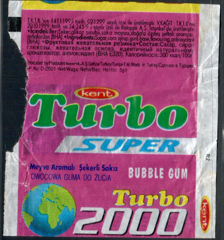
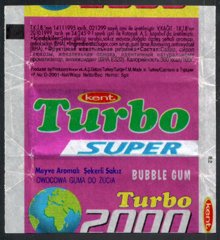
turbo 2000 covers

diff --git a/script/thumbnails.py b/script/thumbnails.py
@@ -38,6 +38,6 @@ def build(root_dir: str):
 
 
 if __name__ == "__main__":
-    for root, dirs, files in os.walk(f"../gum_wrappers/kent/turbo/black/191-260"):
+    for root, dirs, files in os.walk(f"../gum_wrappers/kent/turbo/2000/71-140"):
         if "thumbnails" in dirs:
             build(root)

diff --git a/gum_wrappers/kent/turbo/2000/71-140/README.md b/gum_wrappers/kent/turbo/2000/71-140/README.md
@@ -5,11 +5,11 @@
 |     Release      |                                                             1                                                              |                                                   2                                                    |                                                             3                                                              |                                                             4                                                              |                                                             5                                                              |
 |:----------------:|:--------------------------------------------------------------------------------------------------------------------------:|:------------------------------------------------------------------------------------------------------:|:--------------------------------------------------------------------------------------------------------------------------:|:--------------------------------------------------------------------------------------------------------------------------:|:--------------------------------------------------------------------------------------------------------------------------:|
 |  1999.07 [G-99]  |             [<img src='thumbnails/outer/1999_07{G-99}[5]/1.5.png'>](thumbnails/outer/1999_07{G-99}[5]/1.5.png)             |   [<img src='thumbnails/outer/1999_07{G-99}[5]/2.5.png'>](thumbnails/outer/1999_07{G-99}[5]/2.5.png)   |             [<img src='thumbnails/outer/1999_07{G-99}[5]/3.5.png'>](thumbnails/outer/1999_07{G-99}[5]/3.5.png)             |             [<img src='thumbnails/outer/1999_07{G-99}[5]/4.5.png'>](thumbnails/outer/1999_07{G-99}[5]/4.5.png)             |             [<img src='thumbnails/outer/1999_07{G-99}[5]/5.4.png'>](thumbnails/outer/1999_07{G-99}[5]/5.4.png)             |
-| 2000.03 [C-2000] |           [<img src='thumbnails/outer/2000_03{C-2000}[5]/1.5.png'>](thumbnails/outer/2000_03{C-2000}[5]/1.5.png)           | [<img src='thumbnails/outer/2000_03{C-2000}[5]/2.5.png'>](thumbnails/outer/2000_03{C-2000}[5]/2.5.png) | [<img src='/collection/gum_wrappers/kent/turbo//missed_outer.png'>](/collection/gum_wrappers/kent/turbo//missed_outer.png) | [<img src='/collection/gum_wrappers/kent/turbo//missed_outer.png'>](/collection/gum_wrappers/kent/turbo//missed_outer.png) |           [<img src='thumbnails/outer/2000_03{C-2000}[5]/5.5.png'>](thumbnails/outer/2000_03{C-2000}[5]/5.5.png)           |
+| 2000.03 [C-2000] |           [<img src='thumbnails/outer/2000_03{C-2000}[5]/1.5.png'>](thumbnails/outer/2000_03{C-2000}[5]/1.5.png)           | [<img src='thumbnails/outer/2000_03{C-2000}[5]/2.5.png'>](thumbnails/outer/2000_03{C-2000}[5]/2.5.png) | [<img src='/collection/gum_wrappers/kent/turbo//missed_outer.png'>](/collection/gum_wrappers/kent/turbo//missed_outer.png) |           [<img src='thumbnails/outer/2000_03{C-2000}[5]/4.5.png'>](thumbnails/outer/2000_03{C-2000}[5]/4.5.png)           |           [<img src='thumbnails/outer/2000_03{C-2000}[5]/5.5.png'>](thumbnails/outer/2000_03{C-2000}[5]/5.5.png)           |
 | 2000.04 [D-2000] | [<img src='/collection/gum_wrappers/kent/turbo//missed_outer.png'>](/collection/gum_wrappers/kent/turbo//missed_outer.png) | [<img src='thumbnails/outer/2000_04{D-2000}[5]/2.5.png'>](thumbnails/outer/2000_04{D-2000}[5]/2.5.png) |           [<img src='thumbnails/outer/2000_04{D-2000}[5]/3.5.png'>](thumbnails/outer/2000_04{D-2000}[5]/3.5.png)           |           [<img src='thumbnails/outer/2000_04{D-2000}[5]/4.5.png'>](thumbnails/outer/2000_04{D-2000}[5]/4.5.png)           | [<img src='/collection/gum_wrappers/kent/turbo//missed_outer.png'>](/collection/gum_wrappers/kent/turbo//missed_outer.png) |
-| 2000.07 [G-2000] | [<img src='/collection/gum_wrappers/kent/turbo//missed_outer.png'>](/collection/gum_wrappers/kent/turbo//missed_outer.png) | [<img src='thumbnails/outer/2000_07{G-2000}[5]/2.5.png'>](thumbnails/outer/2000_07{G-2000}[5]/2.5.png) |           [<img src='thumbnails/outer/2000_07{G-2000}[5]/3.5.png'>](thumbnails/outer/2000_07{G-2000}[5]/3.5.png)           | [<img src='/collection/gum_wrappers/kent/turbo//missed_outer.png'>](/collection/gum_wrappers/kent/turbo//missed_outer.png) |           [<img src='thumbnails/outer/2000_07{G-2000}[5]/5.5.png'>](thumbnails/outer/2000_07{G-2000}[5]/5.5.png)           |
+| 2000.07 [G-2000] |           [<img src='thumbnails/outer/2000_07{G-2000}[5]/1.5.png'>](thumbnails/outer/2000_07{G-2000}[5]/1.5.png)           | [<img src='thumbnails/outer/2000_07{G-2000}[5]/2.5.png'>](thumbnails/outer/2000_07{G-2000}[5]/2.5.png) |           [<img src='thumbnails/outer/2000_07{G-2000}[5]/3.5.png'>](thumbnails/outer/2000_07{G-2000}[5]/3.5.png)           |           [<img src='thumbnails/outer/2000_07{G-2000}[5]/4.5.png'>](thumbnails/outer/2000_07{G-2000}[5]/4.5.png)           |           [<img src='thumbnails/outer/2000_07{G-2000}[5]/5.5.png'>](thumbnails/outer/2000_07{G-2000}[5]/5.5.png)           |
 | 2000.11 [K-2000] | [<img src='/collection/gum_wrappers/kent/turbo//missed_outer.png'>](/collection/gum_wrappers/kent/turbo//missed_outer.png) | [<img src='thumbnails/outer/2000_11{K-2000}[5]/2.5.png'>](thumbnails/outer/2000_11{K-2000}[5]/2.5.png) | [<img src='/collection/gum_wrappers/kent/turbo//missed_outer.png'>](/collection/gum_wrappers/kent/turbo//missed_outer.png) | [<img src='/collection/gum_wrappers/kent/turbo//missed_outer.png'>](/collection/gum_wrappers/kent/turbo//missed_outer.png) | [<img src='/collection/gum_wrappers/kent/turbo//missed_outer.png'>](/collection/gum_wrappers/kent/turbo//missed_outer.png) |
-| 2001.04 [D-2001] | [<img src='/collection/gum_wrappers/kent/turbo//missed_outer.png'>](/collection/gum_wrappers/kent/turbo//missed_outer.png) | [<img src='thumbnails/outer/2001_04{D-2001}[5]/2.5.png'>](thumbnails/outer/2001_04{D-2001}[5]/2.5.png) | [<img src='/collection/gum_wrappers/kent/turbo//missed_outer.png'>](/collection/gum_wrappers/kent/turbo//missed_outer.png) |           [<img src='thumbnails/outer/2001_04{D-2001}[5]/4.5.png'>](thumbnails/outer/2001_04{D-2001}[5]/4.5.png)           | [<img src='/collection/gum_wrappers/kent/turbo//missed_outer.png'>](/collection/gum_wrappers/kent/turbo//missed_outer.png) |
+| 2001.04 [D-2001] |           [<img src='thumbnails/outer/2001_04{D-2001}[5]/1.5.png'>](thumbnails/outer/2001_04{D-2001}[5]/1.5.png)           | [<img src='thumbnails/outer/2001_04{D-2001}[5]/2.5.png'>](thumbnails/outer/2001_04{D-2001}[5]/2.5.png) | [<img src='/collection/gum_wrappers/kent/turbo//missed_outer.png'>](/collection/gum_wrappers/kent/turbo//missed_outer.png) |           [<img src='thumbnails/outer/2001_04{D-2001}[5]/4.5.png'>](thumbnails/outer/2001_04{D-2001}[5]/4.5.png)           |           [<img src='thumbnails/outer/2001_04{D-2001}[5]/5.5.png'>](thumbnails/outer/2001_04{D-2001}[5]/5.5.png)           |
 
 <span style="display: inline-block;">
 	<a href='thumbnails/inner/71.5.png' title=''><img src='thumbnails/inner/71.5.png' alt=''></a>

diff --git a/gum_wrappers/kent/turbo/index.md b/gum_wrappers/kent/turbo/index.md
@@ -10,7 +10,7 @@ layout: default
 
 ## Statistic
 
-\[Covers: 698 of 1094\]
+\[Covers: 703 of 1094\]
 \[Wrappers: 2161 of 2193\]
 
 ## [T1 – Turbo 1-50](black/1-50)
@@ -2991,7 +2991,7 @@ Wrappers: 70 / 70
 
 ## [E2 – Turbo 2000 Super 71-140](2000/71-140)
 
-Covers: 17 / 30
+Covers: 22 / 30
 Wrappers: 70 / 70
 
 <table style="width:100%">
@@ -3007,7 +3007,7 @@ Wrappers: 70 / 70
             <a href='2000/71-140/thumbnails/outer/2000_03{C-2000}[5]/1.5.png' target='_blank'><img src='2000/71-140/thumbnails/outer/2000_03{C-2000}[5]/1.5.png' width='50' alt='2000.03 [C-2000] .1'/></a>
             <a href='2000/71-140/thumbnails/outer/2000_03{C-2000}[5]/2.5.png' target='_blank'><img src='2000/71-140/thumbnails/outer/2000_03{C-2000}[5]/2.5.png' width='50' alt='2000.03 [C-2000] .2'/></a>
             <a href='/collection/gum_wrappers/kent/turbo//missed_outer.png' target='_blank'><img src='/collection/gum_wrappers/kent/turbo//missed_outer.png' width='50' alt='2000.03 [C-2000] .3'/></a>
-            <a href='/collection/gum_wrappers/kent/turbo//missed_outer.png' target='_blank'><img src='/collection/gum_wrappers/kent/turbo//missed_outer.png' width='50' alt='2000.03 [C-2000] .4'/></a>
+            <a href='2000/71-140/thumbnails/outer/2000_03{C-2000}[5]/4.5.png' target='_blank'><img src='2000/71-140/thumbnails/outer/2000_03{C-2000}[5]/4.5.png' width='50' alt='2000.03 [C-2000] .4'/></a>
             <a href='2000/71-140/thumbnails/outer/2000_03{C-2000}[5]/5.5.png' target='_blank'><img src='2000/71-140/thumbnails/outer/2000_03{C-2000}[5]/5.5.png' width='50' alt='2000.03 [C-2000] .5'/></a>
             <br/>2000.04 [D-2000] <br/>
             <a href='/collection/gum_wrappers/kent/turbo//missed_outer.png' target='_blank'><img src='/collection/gum_wrappers/kent/turbo//missed_outer.png' width='50' alt='2000.04 [D-2000] .1'/></a>
@@ -3016,10 +3016,10 @@ Wrappers: 70 / 70
             <a href='2000/71-140/thumbnails/outer/2000_04{D-2000}[5]/4.5.png' target='_blank'><img src='2000/71-140/thumbnails/outer/2000_04{D-2000}[5]/4.5.png' width='50' alt='2000.04 [D-2000] .4'/></a>
             <a href='/collection/gum_wrappers/kent/turbo//missed_outer.png' target='_blank'><img src='/collection/gum_wrappers/kent/turbo//missed_outer.png' width='50' alt='2000.04 [D-2000] .5'/></a>
             <br/>2000.07 [G-2000] <br/>
-            <a href='/collection/gum_wrappers/kent/turbo//missed_outer.png' target='_blank'><img src='/collection/gum_wrappers/kent/turbo//missed_outer.png' width='50' alt='2000.07 [G-2000] .1'/></a>
+            <a href='2000/71-140/thumbnails/outer/2000_07{G-2000}[5]/1.5.png' target='_blank'><img src='2000/71-140/thumbnails/outer/2000_07{G-2000}[5]/1.5.png' width='50' alt='2000.07 [G-2000] .1'/></a>
             <a href='2000/71-140/thumbnails/outer/2000_07{G-2000}[5]/2.5.png' target='_blank'><img src='2000/71-140/thumbnails/outer/2000_07{G-2000}[5]/2.5.png' width='50' alt='2000.07 [G-2000] .2'/></a>
             <a href='2000/71-140/thumbnails/outer/2000_07{G-2000}[5]/3.5.png' target='_blank'><img src='2000/71-140/thumbnails/outer/2000_07{G-2000}[5]/3.5.png' width='50' alt='2000.07 [G-2000] .3'/></a>
-            <a href='/collection/gum_wrappers/kent/turbo//missed_outer.png' target='_blank'><img src='/collection/gum_wrappers/kent/turbo//missed_outer.png' width='50' alt='2000.07 [G-2000] .4'/></a>
+            <a href='2000/71-140/thumbnails/outer/2000_07{G-2000}[5]/4.5.png' target='_blank'><img src='2000/71-140/thumbnails/outer/2000_07{G-2000}[5]/4.5.png' width='50' alt='2000.07 [G-2000] .4'/></a>
             <a href='2000/71-140/thumbnails/outer/2000_07{G-2000}[5]/5.5.png' target='_blank'><img src='2000/71-140/thumbnails/outer/2000_07{G-2000}[5]/5.5.png' width='50' alt='2000.07 [G-2000] .5'/></a>
             <br/>2000.11 [K-2000] <br/>
             <a href='/collection/gum_wrappers/kent/turbo//missed_outer.png' target='_blank'><img src='/collection/gum_wrappers/kent/turbo//missed_outer.png' width='50' alt='2000.11 [K-2000] .1'/></a>
@@ -3028,11 +3028,11 @@ Wrappers: 70 / 70
             <a href='/collection/gum_wrappers/kent/turbo//missed_outer.png' target='_blank'><img src='/collection/gum_wrappers/kent/turbo//missed_outer.png' width='50' alt='2000.11 [K-2000] .4'/></a>
             <a href='/collection/gum_wrappers/kent/turbo//missed_outer.png' target='_blank'><img src='/collection/gum_wrappers/kent/turbo//missed_outer.png' width='50' alt='2000.11 [K-2000] .5'/></a>
             <br/>2001.04 [D-2001] <br/>
-            <a href='/collection/gum_wrappers/kent/turbo//missed_outer.png' target='_blank'><img src='/collection/gum_wrappers/kent/turbo//missed_outer.png' width='50' alt='2001.04 [D-2001] .1'/></a>
+            <a href='2000/71-140/thumbnails/outer/2001_04{D-2001}[5]/1.5.png' target='_blank'><img src='2000/71-140/thumbnails/outer/2001_04{D-2001}[5]/1.5.png' width='50' alt='2001.04 [D-2001] .1'/></a>
             <a href='2000/71-140/thumbnails/outer/2001_04{D-2001}[5]/2.5.png' target='_blank'><img src='2000/71-140/thumbnails/outer/2001_04{D-2001}[5]/2.5.png' width='50' alt='2001.04 [D-2001] .2'/></a>
             <a href='/collection/gum_wrappers/kent/turbo//missed_outer.png' target='_blank'><img src='/collection/gum_wrappers/kent/turbo//missed_outer.png' width='50' alt='2001.04 [D-2001] .3'/></a>
             <a href='2000/71-140/thumbnails/outer/2001_04{D-2001}[5]/4.5.png' target='_blank'><img src='2000/71-140/thumbnails/outer/2001_04{D-2001}[5]/4.5.png' width='50' alt='2001.04 [D-2001] .4'/></a>
-            <a href='/collection/gum_wrappers/kent/turbo//missed_outer.png' target='_blank'><img src='/collection/gum_wrappers/kent/turbo//missed_outer.png' width='50' alt='2001.04 [D-2001] .5'/></a>
+            <a href='2000/71-140/thumbnails/outer/2001_04{D-2001}[5]/5.5.png' target='_blank'><img src='2000/71-140/thumbnails/outer/2001_04{D-2001}[5]/5.5.png' width='50' alt='2001.04 [D-2001] .5'/></a>
             <br/>
         </td>
         <td>
